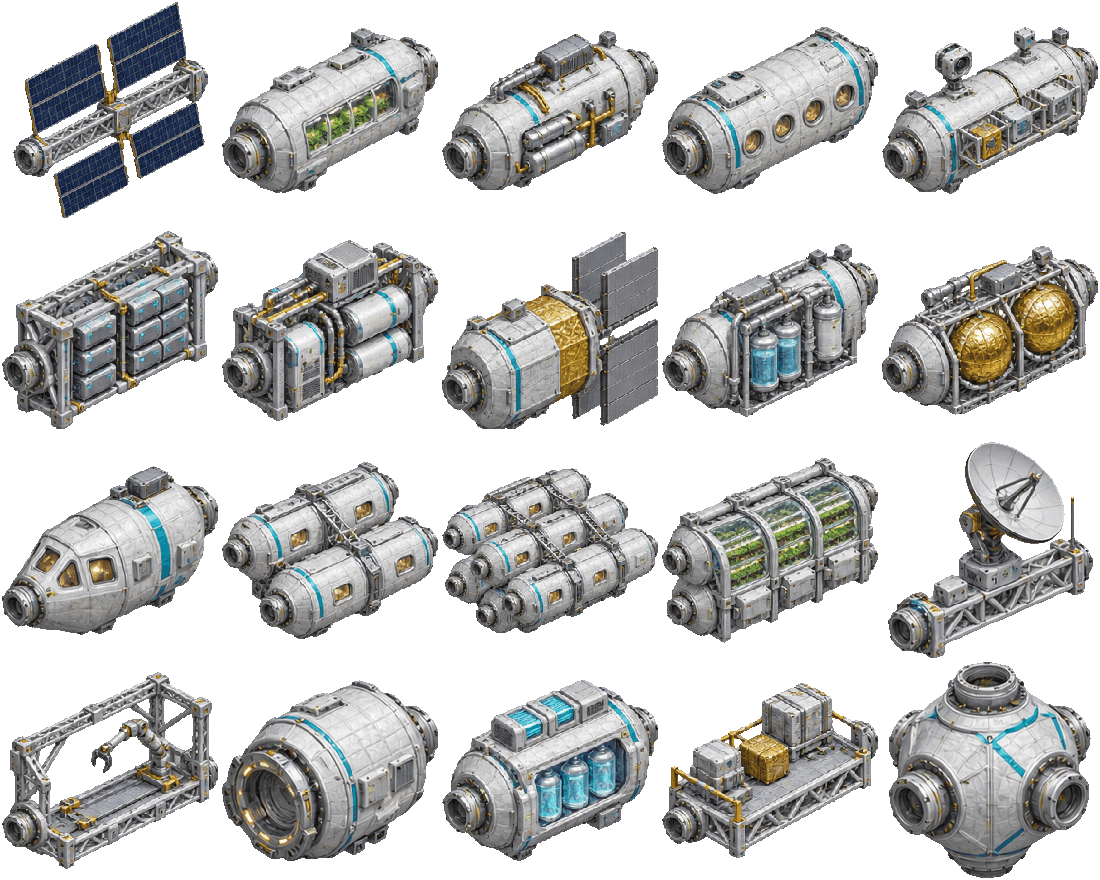
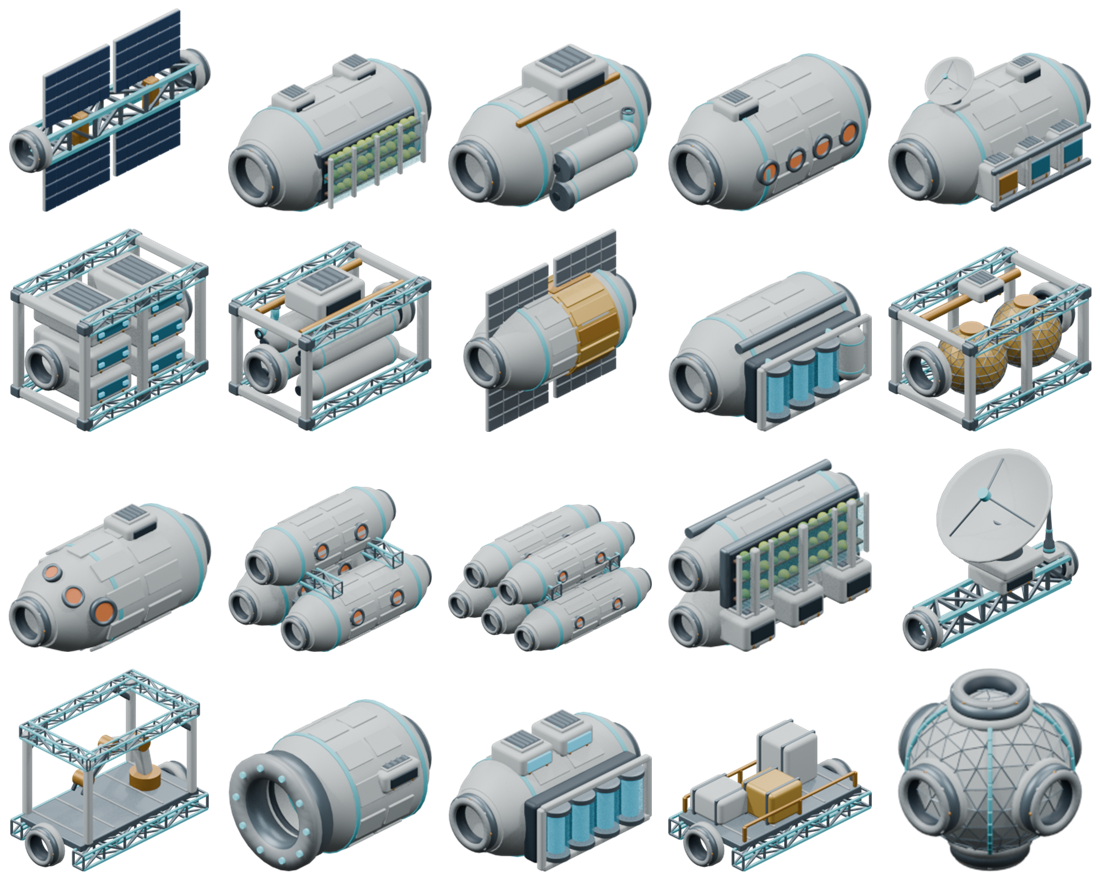
Replace building art with supplied sprite sheets

diff --git a/Play/wwwroot/isometric.js b/Play/wwwroot/isometric.js
@@ -1,8 +1,6 @@
 "use strict";
 
 const Isometric=(() => {
-  // Vertical scale and shear corrections for the built-in 2:1 surface art.
-  const surfaceProjection={25:[1.10,.05],26:[1.02,.08],27:[.98,.18]};
   function project(x,y,scale,offsetX=0,offsetY=0) {
     return [offsetX+(x-y)*48*scale,offsetY+(x+y)*24*scale];
   }
@@ -48,7 +46,7 @@ const Isometric=(() => {
     else ctx.drawImage(tiles[shade+depositIndex*8],px-49,py);
   }
 
-  async function loadSprite(building,path=building.image,source=null,projection=[1,0]) {
+  async function loadSprite(building,path=building.image,source=null,squareFoundation=false) {
     const template=()=>Sprites.buildings[Math.max(0,Sprites.art.indexOf(building.art))];
     if(!path && !source) return template();
     let image=source;
@@ -61,12 +59,15 @@ const Isometric=(() => {
     const density=Math.max(2,building.footprint.width,building.footprint.height);
     const sprite=Object.assign(document.createElement("canvas"),{width:96*density,height:100*density});
     const iw=image.naturalWidth || image.width, ih=image.naturalHeight || image.height;
-    const [rise,tilt]=projection;
-    const fit=Math.min(sprite.width/iw,sprite.height/(ih*rise+iw*Math.abs(tilt)));
+    const {width,height}=building.footprint;
+    // The sheet has square foundations. Center the largest square within a
+    // rectangular footprint so the base edges keep the map's 2:1 projection.
+    const widthRatio=squareFoundation ? 2*Math.min(width,height)/(width+height) : 1;
+    const bottomInset=24*density*(1-widthRatio);
+    const fit=Math.min(sprite.width*widthRatio/iw,(sprite.height-bottomInset)/ih);
     const g=sprite.getContext("2d");
     g.imageSmoothingQuality="high";
-    g.setTransform(fit,tilt*fit,0,rise*fit,(sprite.width-iw*fit)/2,
-      sprite.height-(ih*rise+iw*Math.max(0,tilt))*fit);
+    g.setTransform(fit,0,0,fit,(sprite.width-iw*fit)/2,sprite.height-bottomInset-ih*fit);
     g.drawImage(image,0,0);
     return sprite;
   }
@@ -74,8 +75,8 @@ const Isometric=(() => {
   async function loadBuilding(building,kind,galaxy) {
     const env=Artwork.environment(kind);
     const source=await Artwork.sprite(galaxy,env,"building",building.id);
-    const projection=env==="planet" && source instanceof HTMLCanvasElement ? surfaceProjection[building.id] : undefined;
-    return loadSprite(building,building.environmentImages?.[env] ?? building.image,source,projection);
+    const squareFoundation=env==="planet" && Artwork.hasPlanetStructure(building.id) && source instanceof HTMLCanvasElement;
+    return loadSprite(building,building.environmentImages?.[env] ?? building.image,source,squareFoundation);
   }
 
   return {project,footprint,place,depth,drawFoundation,drawBuilding,shade,drawGround,loadSprite,loadBuilding};

diff --git a/Source/wwwroot/isometric.js b/Source/wwwroot/isometric.js
@@ -1,8 +1,6 @@
 "use strict";
 
 const Isometric=(() => {
-  // Vertical scale and shear corrections for the built-in 2:1 surface art.
-  const surfaceProjection={25:[1.10,.05],26:[1.02,.08],27:[.98,.18]};
   function project(x,y,scale,offsetX=0,offsetY=0) {
     return [offsetX+(x-y)*48*scale,offsetY+(x+y)*24*scale];
   }
@@ -48,7 +46,7 @@ const Isometric=(() => {
     else ctx.drawImage(tiles[shade+depositIndex*8],px-49,py);
   }
 
-  async function loadSprite(building,path=building.image,source=null,projection=[1,0]) {
+  async function loadSprite(building,path=building.image,source=null,squareFoundation=false) {
     const template=()=>Sprites.buildings[Math.max(0,Sprites.art.indexOf(building.art))];
     if(!path && !source) return template();
     let image=source;
@@ -61,12 +59,15 @@ const Isometric=(() => {
     const density=Math.max(2,building.footprint.width,building.footprint.height);
     const sprite=Object.assign(document.createElement("canvas"),{width:96*density,height:100*density});
     const iw=image.naturalWidth || image.width, ih=image.naturalHeight || image.height;
-    const [rise,tilt]=projection;
-    const fit=Math.min(sprite.width/iw,sprite.height/(ih*rise+iw*Math.abs(tilt)));
+    const {width,height}=building.footprint;
+    // The sheet has square foundations. Center the largest square within a
+    // rectangular footprint so the base edges keep the map's 2:1 projection.
+    const widthRatio=squareFoundation ? 2*Math.min(width,height)/(width+height) : 1;
+    const bottomInset=24*density*(1-widthRatio);
+    const fit=Math.min(sprite.width*widthRatio/iw,(sprite.height-bottomInset)/ih);
     const g=sprite.getContext("2d");
     g.imageSmoothingQuality="high";
-    g.setTransform(fit,tilt*fit,0,rise*fit,(sprite.width-iw*fit)/2,
-      sprite.height-(ih*rise+iw*Math.max(0,tilt))*fit);
+    g.setTransform(fit,0,0,fit,(sprite.width-iw*fit)/2,sprite.height-bottomInset-ih*fit);
     g.drawImage(image,0,0);
     return sprite;
   }
@@ -74,8 +75,8 @@ const Isometric=(() => {
   async function loadBuilding(building,kind,galaxy) {
     const env=Artwork.environment(kind);
     const source=await Artwork.sprite(galaxy,env,"building",building.id);
-    const projection=env==="planet" && source instanceof HTMLCanvasElement ? surfaceProjection[building.id] : undefined;
-    return loadSprite(building,building.environmentImages?.[env] ?? building.image,source,projection);
+    const squareFoundation=env==="planet" && Artwork.hasPlanetStructure(building.id) && source instanceof HTMLCanvasElement;
+    return loadSprite(building,building.environmentImages?.[env] ?? building.image,source,squareFoundation);
   }
 
   return {project,footprint,place,depth,drawFoundation,drawBuilding,shade,drawGround,loadSprite,loadBuilding};

diff --git a/Play/wwwroot/artwork.js b/Play/wwwroot/artwork.js
@@ -9,13 +9,15 @@ const Artwork=(() => {
   };
   const safe=value=>typeof value==="string" && /^[a-z0-9-]+$/.test(value);
   const environment=kind=>kind==="orbit" ? "orbit" : "planet";
+  const hasPlanetStructure=id=>buildingSheets.planet.ids.includes(id);
 
   function cell(kind,key) {
     if(kind==="resource") {
       const index=resources.indexOf(key);
       return index<0 ? -1 : 27+index;
     }
-    return key<=27 ? key-1 : key===33 ? 6 : key<=32 ? key+9 : -1;
+    if(!Number.isInteger(key) || key<1 || key>33) return -1;
+    return key<=27 ? key-1 : key===33 ? 6 : key+9;
   }
 
   async function manifest(galaxy) {
@@ -50,6 +52,7 @@ const Artwork=(() => {
     const atlas=await atlasCache.get(file);
     if(!atlas) return null;
     const w=atlas.naturalWidth/columns,h=atlas.naturalHeight/rows;
+    if(!Number.isInteger(w) || !Number.isInteger(h) || index>=columns*rows) return null;
     const tile=Object.assign(document.createElement("canvas"),{width:w,height:h});
     const g=tile.getContext("2d",{willReadFrequently:trim});
     g.drawImage(atlas,index%columns*w,Math.floor(index/columns)*h,w,h,0,0,w,h);
@@ -59,7 +62,7 @@ const Artwork=(() => {
     if(clean) removeAtlasFragments(imageData);
     let left=width,top=height,right=0,bottom=0;
     for(let y=0;y<height;y++) for(let x=0;x<width;x++) {
-      if(pixels[(y*width+x)*4+3]<96) continue;
+      if(pixels[(y*width+x)*4+3]<(clean ? 96 : 1)) continue;
       left=Math.min(left,x);right=Math.max(right,x);
       top=Math.min(top,y);bottom=Math.max(bottom,y);
     }
@@ -92,16 +95,12 @@ const Artwork=(() => {
   }
 
   async function defaultSprite(env,index,kind,key) {
-    if(env==="orbit" && kind==="building" && key===25) {
-      const drill=await image("assets/refresh/orbit-core-drill.png");
-      if(drill) return drill;
-    }
     const sheet=buildingSheets[env], dedicated=kind==="building" ? sheet.ids.indexOf(key) : -1;
     if(dedicated>=0) {
       const sprite=await atlasSprite(env+"-structures",dedicated,sheet.columns,sheet.rows,true);
       if(sprite) return sprite;
     }
-    return atlasSprite(env,index,7,6,kind==="building",kind==="building");
+    return atlasSprite(env,index,7,6,kind==="building",env==="planet" && kind==="building");
   }
 
   async function sprite(galaxy,env,kind,key) {
@@ -109,6 +108,6 @@ const Artwork=(() => {
       (environment,index)=>defaultSprite(environment,index,kind,key));
   }
 
-  return {environment,cell,override,resolve,sprite};
+  return {environment,hasPlanetStructure,cell,override,resolve,sprite};
 })();
 if(typeof module!=="undefined") module.exports=Artwork;

diff --git a/Source/wwwroot/artwork.js b/Source/wwwroot/artwork.js
@@ -9,13 +9,15 @@ const Artwork=(() => {
   };
   const safe=value=>typeof value==="string" && /^[a-z0-9-]+$/.test(value);
   const environment=kind=>kind==="orbit" ? "orbit" : "planet";
+  const hasPlanetStructure=id=>buildingSheets.planet.ids.includes(id);
 
   function cell(kind,key) {
     if(kind==="resource") {
       const index=resources.indexOf(key);
       return index<0 ? -1 : 27+index;
     }
-    return key<=27 ? key-1 : key===33 ? 6 : key<=32 ? key+9 : -1;
+    if(!Number.isInteger(key) || key<1 || key>33) return -1;
+    return key<=27 ? key-1 : key===33 ? 6 : key+9;
   }
 
   async function manifest(galaxy) {
@@ -50,6 +52,7 @@ const Artwork=(() => {
     const atlas=await atlasCache.get(file);
     if(!atlas) return null;
     const w=atlas.naturalWidth/columns,h=atlas.naturalHeight/rows;
+    if(!Number.isInteger(w) || !Number.isInteger(h) || index>=columns*rows) return null;
     const tile=Object.assign(document.createElement("canvas"),{width:w,height:h});
     const g=tile.getContext("2d",{willReadFrequently:trim});
     g.drawImage(atlas,index%columns*w,Math.floor(index/columns)*h,w,h,0,0,w,h);
@@ -59,7 +62,7 @@ const Artwork=(() => {
     if(clean) removeAtlasFragments(imageData);
     let left=width,top=height,right=0,bottom=0;
     for(let y=0;y<height;y++) for(let x=0;x<width;x++) {
-      if(pixels[(y*width+x)*4+3]<96) continue;
+      if(pixels[(y*width+x)*4+3]<(clean ? 96 : 1)) continue;
       left=Math.min(left,x);right=Math.max(right,x);
       top=Math.min(top,y);bottom=Math.max(bottom,y);
     }
@@ -92,16 +95,12 @@ const Artwork=(() => {
   }
 
   async function defaultSprite(env,index,kind,key) {
-    if(env==="orbit" && kind==="building" && key===25) {
-      const drill=await image("assets/refresh/orbit-core-drill.png");
-      if(drill) return drill;
-    }
     const sheet=buildingSheets[env], dedicated=kind==="building" ? sheet.ids.indexOf(key) : -1;
     if(dedicated>=0) {
       const sprite=await atlasSprite(env+"-structures",dedicated,sheet.columns,sheet.rows,true);
       if(sprite) return sprite;
     }
-    return atlasSprite(env,index,7,6,kind==="building",kind==="building");
+    return atlasSprite(env,index,7,6,kind==="building",env==="planet" && kind==="building");
   }
 
   async function sprite(galaxy,env,kind,key) {
@@ -109,6 +108,6 @@ const Artwork=(() => {
       (environment,index)=>defaultSprite(environment,index,kind,key));
   }
 
-  return {environment,cell,override,resolve,sprite};
+  return {environment,hasPlanetStructure,cell,override,resolve,sprite};
 })();
 if(typeof module!=="undefined") module.exports=Artwork;

diff --git a/README.md b/README.md
@@ -138,10 +138,12 @@ known destinations and travel distances in the Solar System. **Construction**
 opens a side panel within the map.
 
 Default building and resource artwork is in `wwwroot/assets/refresh` as separate
-planetary and orbital atlases. The higher-resolution structure sheets provide
-dedicated art for large surface facilities and for station modules, including
-a single orbital docking collar. The renderer anchors large sprites to their
-full footprints. To add galaxy-specific art, place an
+planetary and orbital atlases. `planet-structures.png` supplies 12 surface
+structures and `planet.png` supplies the remaining surface art. In orbit,
+`orbit-structures.png` supplies station modules and `orbit.png` supplies
+the remaining building sprites and resource icons. The surface sheet uses square
+foundations, which the renderer centers within rectangular footprints.
+To add galaxy-specific art, place an
 `artwork.json` in `wwwroot/assets/galaxies/<galaxy-id>/`. Its optional
 `planet` and `orbit` arrays list asset names like `building-1` or
 `resource-water`. Put the PNG in the corresponding environment directory.
